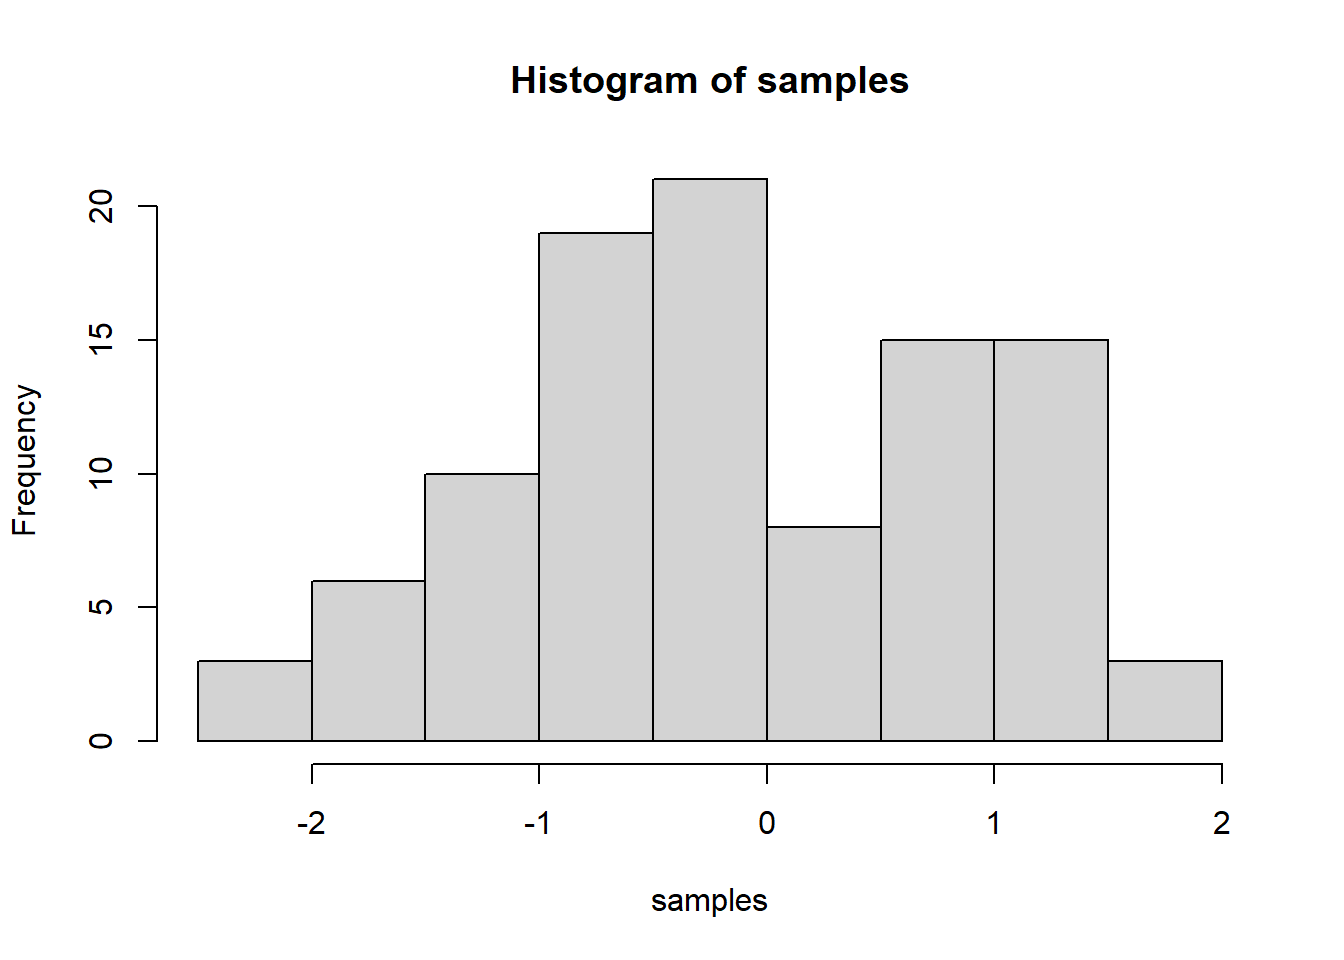
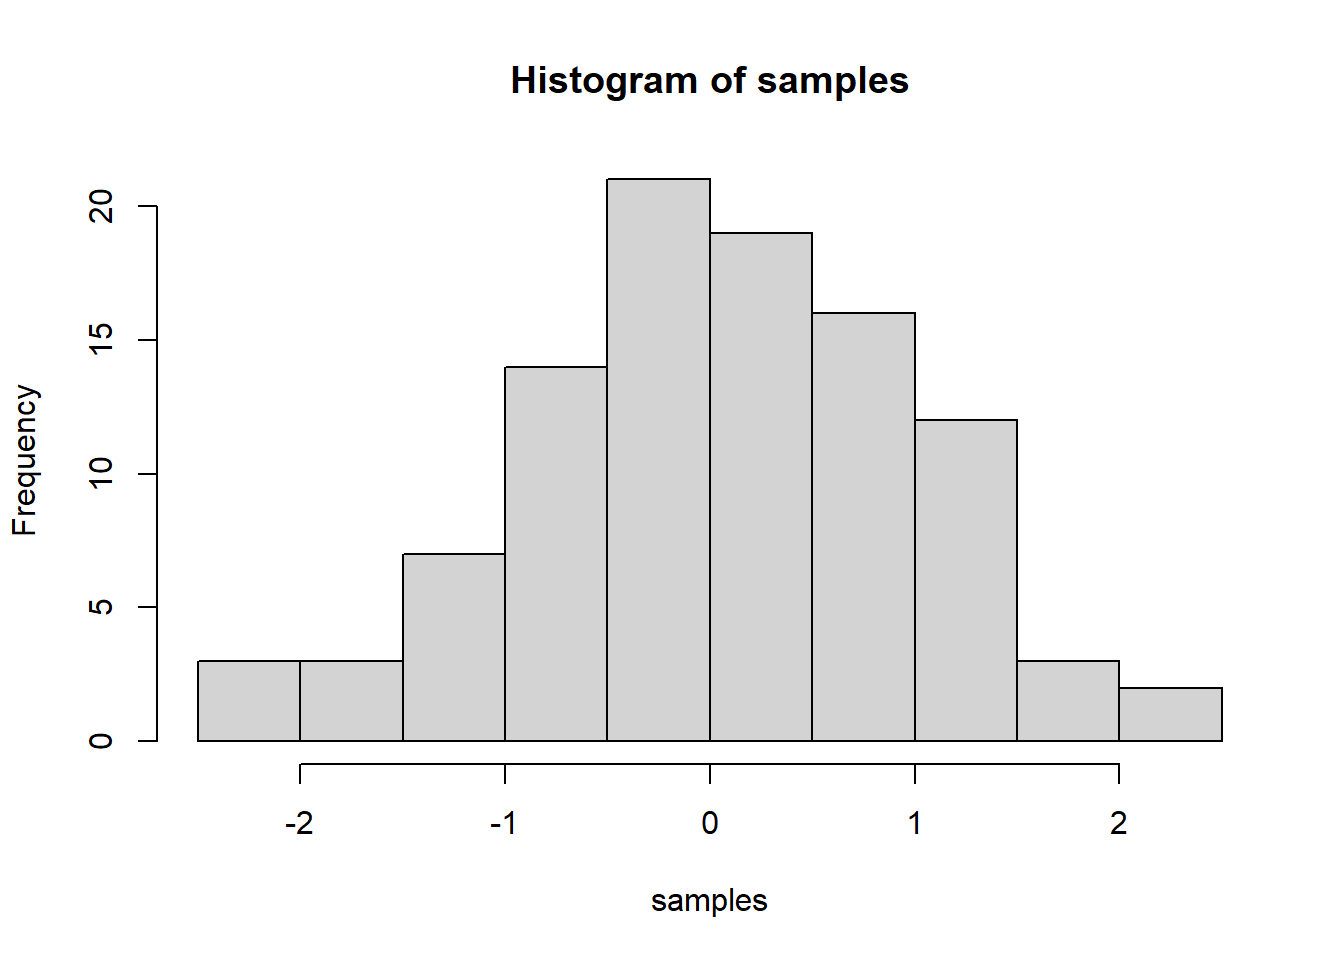
Juan Pablo Roldan

diff --git a/docs/journal.html b/docs/journal.html
@@ -9,9 +9,11 @@
 <meta http-equiv="X-UA-Compatible" content="IE=EDGE" />
 
 
+<meta name="author" content="Juan Pablo Roldan" />
 
+<meta name="date" content="2020-11-05" />
 
-<title>Data Wrangling</title>
+<title>Journal (reproducible report)</title>
 
 <script src="site_libs/jquery-1.11.3/jquery.min.js"></script>
 <meta name="viewport" content="width=device-width, initial-scale=1" />
@@ -19,6 +21,9 @@
 <script src="site_libs/bootstrap-3.3.5/js/bootstrap.min.js"></script>
 <script src="site_libs/bootstrap-3.3.5/shim/html5shiv.min.js"></script>
 <script src="site_libs/bootstrap-3.3.5/shim/respond.min.js"></script>
+<script src="site_libs/jqueryui-1.11.4/jquery-ui.min.js"></script>
+<link href="site_libs/tocify-1.9.1/jquery.tocify.css" rel="stylesheet" />
+<script src="site_libs/tocify-1.9.1/jquery.tocify.js"></script>
 <script src="site_libs/navigation-1.1/tabsets.js"></script>
 <link href="site_libs/highlightjs-9.12.0/default.css" rel="stylesheet" />
 <script src="site_libs/highlightjs-9.12.0/highlight.js"></script>
@@ -260,6 +265,69 @@ $(document).ready(function () {
 
 
 
+<style type="text/css">
+
+#TOC {
+  margin: 25px 0px 20px 0px;
+}
+@media (max-width: 768px) {
+#TOC {
+  position: relative;
+  width: 100%;
+}
+}
+
+@media print {
+.toc-content {
+  /* see https://github.com/w3c/csswg-drafts/issues/4434 */
+  float: right;
+}
+}
+
+.toc-content {
+  padding-left: 30px;
+  padding-right: 40px;
+}
+
+div.main-container {
+  max-width: 1200px;
+}
+
+div.tocify {
+  width: 20%;
+  max-width: 260px;
+  max-height: 85%;
+}
+
+@media (min-width: 768px) and (max-width: 991px) {
+  div.tocify {
+    width: 25%;
+  }
+}
+
+@media (max-width: 767px) {
+  div.tocify {
+    width: 100%;
+    max-width: none;
+  }
+}
+
+.tocify ul, .tocify li {
+  line-height: 20px;
+}
+
+.tocify-subheader .tocify-item {
+  font-size: 0.90em;
+}
+
+.tocify .list-group-item {
+  border-radius: 0px;
+}
+
+
+</style>
+
+
 
 </head>
 
@@ -267,6 +335,16 @@ $(document).ready(function () {
 
 
 <div class="container-fluid main-container">
+
+
+<!-- setup 3col/9col grid for toc_float and main content  -->
+<div class="row-fluid">
+<div class="col-xs-12 col-sm-4 col-md-3">
+<div id="TOC" class="tocify">
+</div>
+</div>
+
+<div class="toc-content col-xs-12 col-sm-8 col-md-9">
 
 
 
@@ -325,38 +403,47 @@ $(document).ready(function () {
 
 
 
-<h1 class="title toc-ignore">Data Wrangling</h1>
-<h4 class="date">Nov 5, 2020</h4>
+<h1 class="title toc-ignore">Journal (reproducible report)</h1>
+<h4 class="author">Juan Pablo Roldan</h4>
+<h4 class="date">2020-11-05</h4>
 
 </div>
 
 
-<div id="example" class="section level1">
-<h1>Example</h1>
-<p>To explore the basic data manipulation verbs of the package <code>dplyr</code>, we’ll use the datasets <code>mtcars</code> (comes with RStudio). The data was extracted from the 1974 Motor Trend US magazine, and comprises fuel consumption and 10 aspects of automobile design and performance for 32 automobiles (1973–74 models). The data is documented in <code>?mtcars</code>.</p>
-<p>The following code chunks will only print something, if you’ve installed the package <code>dplyr</code>. That is why everything is wrapped in a <code>if</code> condition.</p>
-<p>To do so, run:</p>
-<pre class="r"><code>install.packages(&quot;dplyr&quot;)</code></pre>
-<pre class="r"><code>if (&quot;dplyr&quot; %in% rownames(installed.packages())) {
-
-  # Load libraries
-  library(dplyr)
-  
-  # Print the dataframe
-  mtcars
-
-}</code></pre>
-<p><code>filter()</code> allows you to subset observations based on their values. The first argument is the name of the data frame. The second and subsequent arguments are the expressions that filter the data frame. For example, we can select all cars with 4 cylinders and more than 90 horsepower:</p>
-<pre class="r"><code>if (&quot;dplyr&quot; %in% rownames(installed.packages())) {
-
-  filter(mtcars, cyl == 4, hp &gt; 90)
-  
-}  </code></pre>
-<p>…</p>
+<p><strong>IMPORTANT:</strong> You can delete everything in here and start fresh. You might want to start by not deleting anything above this line until you know what that stuff is doing.</p>
+<p>This is an <code>.Rmd</code> file. It is plain text with special features. Any time you write just like this, it will be compiled to normal text in the website. If you put a # in front of your text, it will create a top level-header.</p>
+<div id="my-first-post" class="section level1">
+<h1><span class="header-section-number">1</span> My first post</h1>
+<p>Last compiled: 2020-11-20</p>
+<p>Notice that whatever you define as a top level header, automatically gets put into the table of contents bar on the left.</p>
+<div id="second-level-header" class="section level2">
+<h2><span class="header-section-number">1.1</span> Second level header</h2>
+<p>You can add more headers by adding more hashtags. These won’t be put into the table of contents</p>
+<div id="third-level-header" class="section level3">
+<h3><span class="header-section-number">1.1.1</span> third level header</h3>
+<p>Here’s an even lower level header</p>
+</div>
+</div>
+</div>
+<div id="my-second-post-note-the-order" class="section level1">
+<h1><span class="header-section-number">2</span> My second post (note the order)</h1>
+<p>Last compiled: 2020-11-20</p>
+<p>I’m writing this tutorial going from the top down. And, this is how it will be printed. So, notice the second post is second in the list. If you want your most recent post to be at the top, then make a new post starting at the top. If you want the oldest first, do, then keep adding to the bottom</p>
+</div>
+<div id="adding-r-stuff" class="section level1">
+<h1><span class="header-section-number">3</span> Adding R stuff</h1>
+<p>So far this is just a blog where you can write in plain text and serve your writing to a webpage. One of the main purposes of this lab journal is to record your progress learning R. The reason I am asking you to use this process is because you can both make a website, and a lab journal, and learn R all in R-studio. This makes everything really convenient and in the same place.</p>
+<p>So, let’s say you are learning how to make a histogram in R. For example, maybe you want to sample 100 numbers from a normal distribution with mean = 0, and standard deviation = 1, and then you want to plot a histogram. You can do this right here by using an r code block, like this:</p>
+<pre class="r"><code>samples &lt;- rnorm(100, mean=0, sd=1)
+hist(samples)</code></pre>
+<p><img src="journal_files/figure-html/unnamed-chunk-1-1.png" width="672" /></p>
+<p>When you knit this R Markdown document, you will see that the histogram is printed to the page, along with the R code. This document can be set up to hide the R code in the webpage, just delete the comment (hashtag) from the cold folding option in the yaml header up top. For purposes of letting yourself see the code, and me see the code, best to keep it the way that it is. You’ll learn that all of these things and more can be customized in each R code block.</p>
 </div>
 
 
 
+</div>
+</div>
 
 </div>
 
@@ -389,6 +476,32 @@ $(document).ready(function () {
 
 <!-- code folding -->
 
+<script>
+$(document).ready(function ()  {
+
+    // move toc-ignore selectors from section div to header
+    $('div.section.toc-ignore')
+        .removeClass('toc-ignore')
+        .children('h1,h2,h3,h4,h5').addClass('toc-ignore');
+
+    // establish options
+    var options = {
+      selectors: "h1,h2,h3",
+      theme: "bootstrap3",
+      context: '.toc-content',
+      hashGenerator: function (text) {
+        return text.replace(/[.\\/?&!#<>]/g, '').replace(/\s/g, '_');
+      },
+      ignoreSelector: ".toc-ignore",
+      scrollTo: 0
+    };
+    options.showAndHide = true;
+    options.smoothScroll = true;
+
+    // tocify
+    var toc = $("#TOC").tocify(options).data("toc-tocify");
+});
+</script>
 
 <!-- dynamically load mathjax for compatibility with self-contained -->
 <script>

diff --git a/docs/dictionary.html b/docs/dictionary.html
@@ -439,13 +439,15 @@ div.tocify {
 <li><code>list.files()</code> This function lists all the names of each file in a given R project.</li>
 </ol>
 <pre class="r"><code>list.files()</code></pre>
-<pre><code>##  [1] &quot;_site.yml&quot;                 &quot;build_website.R&quot;           &quot;data_wrangling.html&quot;      
-##  [4] &quot;data_wrangling.Rmd&quot;        &quot;dictionary.Rmd&quot;            &quot;docs&quot;                     
-##  [7] &quot;ggplot_graphs.Rmd&quot;         &quot;images&quot;                    &quot;index.Rmd&quot;                
-## [10] &quot;journal.Rmd&quot;               &quot;journal_cache&quot;             &quot;journal_files&quot;            
-## [13] &quot;lab_journal_website.Rproj&quot; &quot;links.Rmd&quot;                 &quot;machine_learning.Rmd&quot;     
-## [16] &quot;README.md&quot;                 &quot;Renviron&quot;                  &quot;site_libs&quot;                
-## [19] &quot;style.css&quot;                 &quot;testfile.rds&quot;</code></pre>
+<pre><code>##  [1] &quot;_site.yml&quot;                 &quot;build_website.R&quot;          
+##  [3] &quot;data_wrangling.html&quot;       &quot;data_wrangling.Rmd&quot;       
+##  [5] &quot;dictionary.Rmd&quot;            &quot;docs&quot;                     
+##  [7] &quot;ggplot_graphs.Rmd&quot;         &quot;images&quot;                   
+##  [9] &quot;index.Rmd&quot;                 &quot;journal.Rmd&quot;              
+## [11] &quot;journal_files&quot;             &quot;lab_journal_website.Rproj&quot;
+## [13] &quot;links.Rmd&quot;                 &quot;machine_learning.Rmd&quot;     
+## [15] &quot;README.md&quot;                 &quot;site_libs&quot;                
+## [17] &quot;style.css&quot;                 &quot;testfile.rds&quot;</code></pre>
 <p>…</p>
 <hr />
 </div>

diff --git a/docs/ggplot_graphs.html b/docs/ggplot_graphs.html
@@ -346,20 +346,6 @@ $(document).ready(function () {
   mpg
   
   }</code></pre>
-<pre><code>## # A tibble: 234 x 11
-##    manufacturer model      displ  year   cyl trans      drv     cty   hwy fl    class  
-##    &lt;chr&gt;        &lt;chr&gt;      &lt;dbl&gt; &lt;int&gt; &lt;int&gt; &lt;chr&gt;      &lt;chr&gt; &lt;int&gt; &lt;int&gt; &lt;chr&gt; &lt;chr&gt;  
-##  1 audi         a4           1.8  1999     4 auto(l5)   f        18    29 p     compact
-##  2 audi         a4           1.8  1999     4 manual(m5) f        21    29 p     compact
-##  3 audi         a4           2    2008     4 manual(m6) f        20    31 p     compact
-##  4 audi         a4           2    2008     4 auto(av)   f        21    30 p     compact
-##  5 audi         a4           2.8  1999     6 auto(l5)   f        16    26 p     compact
-##  6 audi         a4           2.8  1999     6 manual(m5) f        18    26 p     compact
-##  7 audi         a4           3.1  2008     6 auto(av)   f        18    27 p     compact
-##  8 audi         a4 quattro   1.8  1999     4 manual(m5) 4        18    26 p     compact
-##  9 audi         a4 quattro   1.8  1999     4 auto(l5)   4        16    25 p     compact
-## 10 audi         a4 quattro   2    2008     4 manual(m6) 4        20    28 p     compact
-## # ... with 224 more rows</code></pre>
 <pre class="r"><code>if (&quot;ggplot2&quot; %in% rownames(installed.packages())) {
   
 ggplot(data = mpg, mapping = aes(x = displ, y = hwy)) + 
@@ -367,8 +353,6 @@ ggplot(data = mpg, mapping = aes(x = displ, y = hwy)) +
   geom_smooth()
   
 }</code></pre>
-<pre><code>## `geom_smooth()` using method = &#39;loess&#39; and formula &#39;y ~ x&#39;</code></pre>
-<p><img src="ggplot_graphs_files/figure-html/unnamed-chunk-3-1.png" width="672" /></p>
 <p>…</p>
 
 
